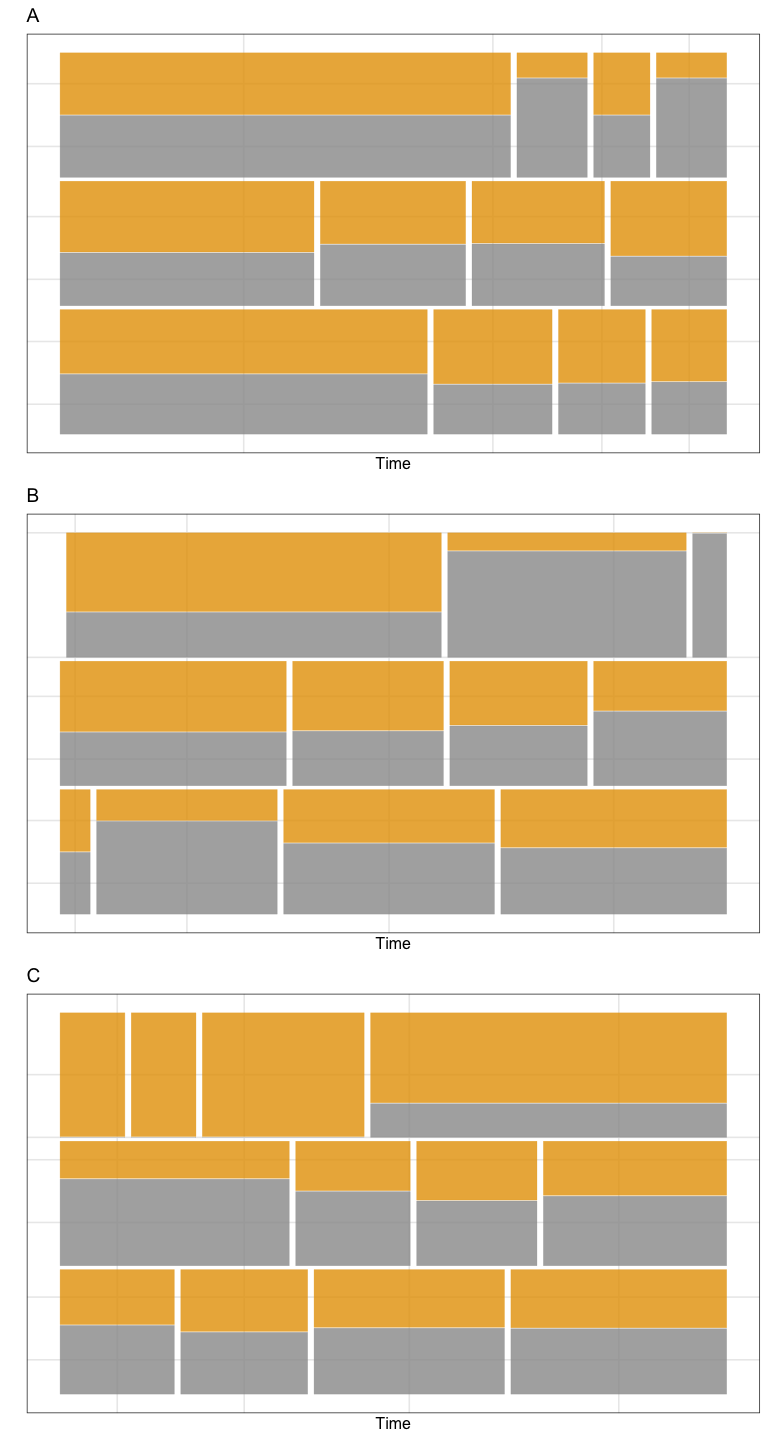
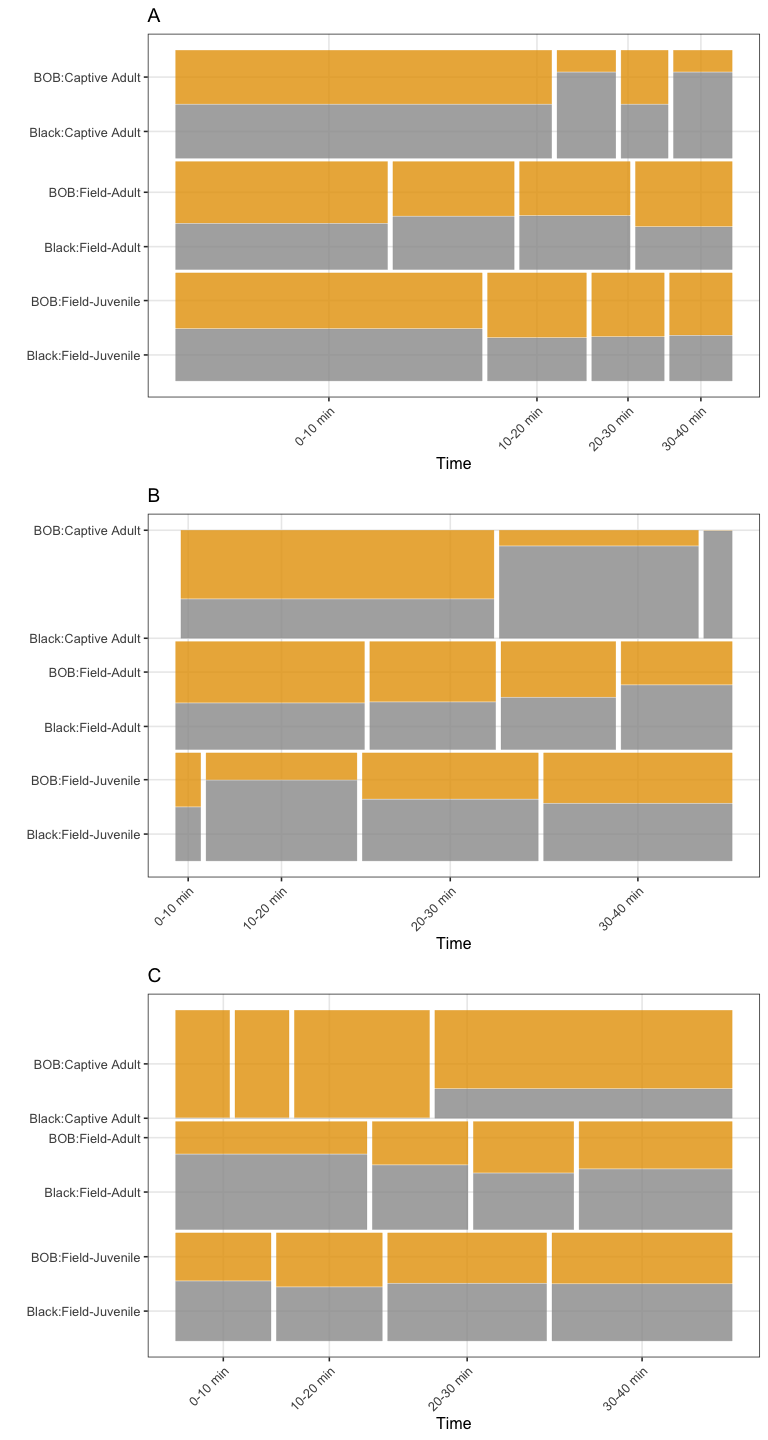
update plots mosaic

diff --git a/report2.md b/report2.md
@@ -92,8 +92,7 @@ resumen <- datos %>% group_by(ID) %>%
             w_size=(unique(w_size)),
             s_type=(unique(s_type)),
             s_size=(unique(s_size)), 
-            drag=(unique(drag))) %>% 
-  arrange(type, w_color, s_type)
+            drag=(unique(drag))) %>% arrange(type, w_color, s_type)
 ```
 
     ## `summarise()` ungrouping output (override with `.groups` argument)
@@ -617,7 +616,7 @@ done using the nnet package (Venables et al, 2002).
 Colophon
 ========
 
-This report was generated on 2020-09-22 16:48:02 using the following
+This report was generated on 2020-09-22 17:05:12 using the following
 computational environment and dependencies:
 
 ``` r
@@ -638,109 +637,109 @@ if ("devtools" %in% installed.packages()) devtools::session_info()
     ##  date     2020-09-22                  
     ## 
     ## ─ Packages ───────────────────────────────────────────────────────────────────
-    ##  package      * version  date       lib source        
-    ##  assertthat     0.2.1    2019-03-21 [1] CRAN (R 4.0.2)
-    ##  backports      1.1.10   2020-09-15 [1] CRAN (R 4.0.2)
-    ##  blob           1.2.1    2020-01-20 [1] CRAN (R 4.0.2)
-    ##  boot           1.3-25   2020-04-26 [1] CRAN (R 4.0.2)
-    ##  broom          0.7.0    2020-07-09 [1] CRAN (R 4.0.2)
-    ##  callr          3.4.4    2020-09-07 [1] CRAN (R 4.0.2)
-    ##  cellranger     1.1.0    2016-07-27 [1] CRAN (R 4.0.2)
-    ##  class          7.3-17   2020-04-26 [1] CRAN (R 4.0.2)
-    ##  cli            2.0.2    2020-02-28 [1] CRAN (R 4.0.2)
-    ##  colorspace     1.4-1    2019-03-18 [1] CRAN (R 4.0.2)
-    ##  crayon         1.3.4    2017-09-16 [1] CRAN (R 4.0.2)
-    ##  curl           4.3      2019-12-02 [1] CRAN (R 4.0.1)
-    ##  data.table     1.13.0   2020-07-24 [1] CRAN (R 4.0.2)
-    ##  DBI            1.1.0    2019-12-15 [1] CRAN (R 4.0.2)
-    ##  dbplyr         1.4.4    2020-05-27 [1] CRAN (R 4.0.2)
-    ##  desc           1.2.0    2018-05-01 [1] CRAN (R 4.0.2)
-    ##  DescTools    * 0.99.38  2020-09-07 [1] CRAN (R 4.0.2)
-    ##  devtools       2.3.2    2020-09-18 [1] CRAN (R 4.0.2)
-    ##  digest         0.6.25   2020-02-23 [1] CRAN (R 4.0.2)
-    ##  dplyr        * 1.0.2    2020-08-18 [1] CRAN (R 4.0.2)
-    ##  e1071          1.7-3    2019-11-26 [1] CRAN (R 4.0.2)
-    ##  ellipsis       0.3.1    2020-05-15 [1] CRAN (R 4.0.2)
-    ##  evaluate       0.14     2019-05-28 [1] CRAN (R 4.0.1)
-    ##  Exact          2.0      2019-10-14 [1] CRAN (R 4.0.2)
-    ##  expm           0.999-5  2020-07-20 [1] CRAN (R 4.0.2)
-    ##  extrafont    * 0.17     2014-12-08 [1] CRAN (R 4.0.2)
-    ##  extrafontdb    1.0      2012-06-11 [1] CRAN (R 4.0.2)
-    ##  fansi          0.4.1    2020-01-08 [1] CRAN (R 4.0.2)
-    ##  farver         2.0.3    2020-01-16 [1] CRAN (R 4.0.2)
-    ##  forcats      * 0.5.0    2020-03-01 [1] CRAN (R 4.0.2)
-    ##  foreign      * 0.8-80   2020-05-24 [1] CRAN (R 4.0.2)
-    ##  fs             1.5.0    2020-07-31 [1] CRAN (R 4.0.2)
-    ##  generics       0.0.2    2018-11-29 [1] CRAN (R 4.0.2)
-    ##  ggmosaic     * 0.2.0    2018-09-12 [1] CRAN (R 4.0.2)
-    ##  ggplot2      * 3.3.2    2020-06-19 [1] CRAN (R 4.0.2)
-    ##  gld            2.6.2    2020-01-08 [1] CRAN (R 4.0.2)
-    ##  glue           1.4.2    2020-08-27 [1] CRAN (R 4.0.2)
-    ##  gridExtra    * 2.3      2017-09-09 [1] CRAN (R 4.0.2)
-    ##  gtable         0.3.0    2019-03-25 [1] CRAN (R 4.0.2)
-    ##  haven          2.3.1    2020-06-01 [1] CRAN (R 4.0.2)
-    ##  hms            0.5.3    2020-01-08 [1] CRAN (R 4.0.2)
-    ##  htmltools      0.5.0    2020-06-16 [1] CRAN (R 4.0.2)
-    ##  htmlwidgets    1.5.1    2019-10-08 [1] CRAN (R 4.0.2)
-    ##  httr           1.4.2    2020-07-20 [1] CRAN (R 4.0.2)
-    ##  jsonlite       1.7.1    2020-09-07 [1] CRAN (R 4.0.2)
-    ##  knitr          1.29     2020-06-23 [1] CRAN (R 4.0.2)
-    ##  labeling       0.3      2014-08-23 [1] CRAN (R 4.0.2)
-    ##  lattice        0.20-41  2020-04-02 [1] CRAN (R 4.0.2)
-    ##  lazyeval       0.2.2    2019-03-15 [1] CRAN (R 4.0.2)
-    ##  lifecycle      0.2.0    2020-03-06 [1] CRAN (R 4.0.2)
-    ##  lmom           2.8      2019-03-12 [1] CRAN (R 4.0.2)
-    ##  lubridate      1.7.9    2020-06-08 [1] CRAN (R 4.0.2)
-    ##  magrittr       1.5      2014-11-22 [1] CRAN (R 4.0.2)
-    ##  MASS           7.3-51.6 2020-04-26 [1] CRAN (R 4.0.2)
-    ##  Matrix         1.2-18   2019-11-27 [1] CRAN (R 4.0.2)
-    ##  memoise        1.1.0    2017-04-21 [1] CRAN (R 4.0.2)
-    ##  mgcv           1.8-31   2019-11-09 [1] CRAN (R 4.0.2)
-    ##  modelr         0.1.8    2020-05-19 [1] CRAN (R 4.0.2)
-    ##  munsell        0.5.0    2018-06-12 [1] CRAN (R 4.0.2)
-    ##  mvtnorm        1.1-1    2020-06-09 [1] CRAN (R 4.0.2)
-    ##  nlme           3.1-148  2020-05-24 [1] CRAN (R 4.0.2)
-    ##  nnet         * 7.3-14   2020-04-26 [1] CRAN (R 4.0.2)
-    ##  pillar         1.4.6    2020-07-10 [1] CRAN (R 4.0.2)
-    ##  pkgbuild       1.1.0    2020-07-13 [1] CRAN (R 4.0.2)
-    ##  pkgconfig      2.0.3    2019-09-22 [1] CRAN (R 4.0.2)
-    ##  pkgload        1.1.0    2020-05-29 [1] CRAN (R 4.0.2)
-    ##  plotly         4.9.2.1  2020-04-04 [1] CRAN (R 4.0.2)
-    ##  plyr           1.8.6    2020-03-03 [1] CRAN (R 4.0.2)
-    ##  prettyunits    1.1.1    2020-01-24 [1] CRAN (R 4.0.2)
-    ##  processx       3.4.4    2020-09-03 [1] CRAN (R 4.0.2)
-    ##  productplots   0.1.1    2016-07-02 [1] CRAN (R 4.0.2)
-    ##  ps             1.3.4    2020-08-11 [1] CRAN (R 4.0.2)
-    ##  purrr        * 0.3.4    2020-04-17 [1] CRAN (R 4.0.2)
-    ##  R6             2.4.1    2019-11-12 [1] CRAN (R 4.0.2)
-    ##  Rcpp           1.0.5    2020-07-06 [1] CRAN (R 4.0.2)
-    ##  readr        * 1.3.1    2018-12-21 [1] CRAN (R 4.0.2)
-    ##  readxl       * 1.3.1    2019-03-13 [1] CRAN (R 4.0.2)
-    ##  remotes        2.2.0    2020-07-21 [1] CRAN (R 4.0.2)
-    ##  reprex         0.3.0    2019-05-16 [1] CRAN (R 4.0.2)
-    ##  reshape2     * 1.4.4    2020-04-09 [1] CRAN (R 4.0.2)
-    ##  rlang          0.4.7    2020-07-09 [1] CRAN (R 4.0.2)
-    ##  rmarkdown      2.3      2020-06-18 [1] CRAN (R 4.0.2)
-    ##  rprojroot      1.3-2    2018-01-03 [1] CRAN (R 4.0.2)
-    ##  rstudioapi     0.11     2020-02-07 [1] CRAN (R 4.0.2)
-    ##  Rttf2pt1       1.3.8    2020-01-10 [1] CRAN (R 4.0.2)
-    ##  rvest          0.3.6    2020-07-25 [1] CRAN (R 4.0.2)
-    ##  scales         1.1.1    2020-05-11 [1] CRAN (R 4.0.2)
-    ##  sessioninfo    1.1.1    2018-11-05 [1] CRAN (R 4.0.2)
-    ##  stringi        1.5.3    2020-09-09 [1] CRAN (R 4.0.2)
-    ##  stringr      * 1.4.0    2019-02-10 [1] CRAN (R 4.0.2)
-    ##  testthat       2.3.2    2020-03-02 [1] CRAN (R 4.0.2)
-    ##  tibble       * 3.0.3    2020-07-10 [1] CRAN (R 4.0.2)
-    ##  tidyr        * 1.1.2    2020-08-27 [1] CRAN (R 4.0.2)
-    ##  tidyselect     1.1.0    2020-05-11 [1] CRAN (R 4.0.2)
-    ##  tidyverse    * 1.3.0    2019-11-21 [1] CRAN (R 4.0.2)
-    ##  usethis        1.6.3    2020-09-17 [1] CRAN (R 4.0.2)
-    ##  vctrs          0.3.4    2020-08-29 [1] CRAN (R 4.0.2)
-    ##  viridisLite    0.3.0    2018-02-01 [1] CRAN (R 4.0.1)
-    ##  withr          2.2.0    2020-04-20 [1] CRAN (R 4.0.2)
-    ##  xfun           0.17     2020-09-09 [1] CRAN (R 4.0.2)
-    ##  xml2           1.3.2    2020-04-23 [1] CRAN (R 4.0.2)
-    ##  yaml           2.2.1    2020-02-01 [1] CRAN (R 4.0.2)
+    ##  package      * version  date       lib source                                
+    ##  assertthat     0.2.1    2019-03-21 [1] CRAN (R 4.0.2)                        
+    ##  backports      1.1.10   2020-09-15 [1] CRAN (R 4.0.2)                        
+    ##  blob           1.2.1    2020-01-20 [1] CRAN (R 4.0.2)                        
+    ##  boot           1.3-25   2020-04-26 [1] CRAN (R 4.0.2)                        
+    ##  broom          0.7.0    2020-07-09 [1] CRAN (R 4.0.2)                        
+    ##  callr          3.4.4    2020-09-07 [1] CRAN (R 4.0.2)                        
+    ##  cellranger     1.1.0    2016-07-27 [1] CRAN (R 4.0.2)                        
+    ##  class          7.3-17   2020-04-26 [1] CRAN (R 4.0.2)                        
+    ##  cli            2.0.2    2020-02-28 [1] CRAN (R 4.0.2)                        
+    ##  colorspace     1.4-1    2019-03-18 [1] CRAN (R 4.0.2)                        
+    ##  crayon         1.3.4    2017-09-16 [1] CRAN (R 4.0.2)                        
+    ##  curl           4.3      2019-12-02 [1] CRAN (R 4.0.1)                        
+    ##  data.table     1.13.0   2020-07-24 [1] CRAN (R 4.0.2)                        
+    ##  DBI            1.1.0    2019-12-15 [1] CRAN (R 4.0.2)                        
+    ##  dbplyr         1.4.4    2020-05-27 [1] CRAN (R 4.0.2)                        
+    ##  desc           1.2.0    2018-05-01 [1] CRAN (R 4.0.2)                        
+    ##  DescTools    * 0.99.38  2020-09-07 [1] CRAN (R 4.0.2)                        
+    ##  devtools       2.3.2    2020-09-18 [1] CRAN (R 4.0.2)                        
+    ##  digest         0.6.25   2020-02-23 [1] CRAN (R 4.0.2)                        
+    ##  dplyr        * 1.0.2    2020-08-18 [1] CRAN (R 4.0.2)                        
+    ##  e1071          1.7-3    2019-11-26 [1] CRAN (R 4.0.2)                        
+    ##  ellipsis       0.3.1    2020-05-15 [1] CRAN (R 4.0.2)                        
+    ##  evaluate       0.14     2019-05-28 [1] CRAN (R 4.0.1)                        
+    ##  Exact          2.0      2019-10-14 [1] CRAN (R 4.0.2)                        
+    ##  expm           0.999-5  2020-07-20 [1] CRAN (R 4.0.2)                        
+    ##  extrafont    * 0.17     2014-12-08 [1] CRAN (R 4.0.2)                        
+    ##  extrafontdb    1.0      2012-06-11 [1] CRAN (R 4.0.2)                        
+    ##  fansi          0.4.1    2020-01-08 [1] CRAN (R 4.0.2)                        
+    ##  farver         2.0.3    2020-01-16 [1] CRAN (R 4.0.2)                        
+    ##  forcats      * 0.5.0    2020-03-01 [1] CRAN (R 4.0.2)                        
+    ##  foreign      * 0.8-80   2020-05-24 [1] CRAN (R 4.0.2)                        
+    ##  fs             1.5.0    2020-07-31 [1] CRAN (R 4.0.2)                        
+    ##  generics       0.0.2    2018-11-29 [1] CRAN (R 4.0.2)                        
+    ##  ggmosaic     * 0.3.0    2020-09-22 [1] Github (haleyjeppson/ggmosaic@ddf4461)
+    ##  ggplot2      * 3.3.2    2020-06-19 [1] CRAN (R 4.0.2)                        
+    ##  gld            2.6.2    2020-01-08 [1] CRAN (R 4.0.2)                        
+    ##  glue           1.4.2    2020-08-27 [1] CRAN (R 4.0.2)                        
+    ##  gridExtra    * 2.3      2017-09-09 [1] CRAN (R 4.0.2)                        
+    ##  gtable         0.3.0    2019-03-25 [1] CRAN (R 4.0.2)                        
+    ##  haven          2.3.1    2020-06-01 [1] CRAN (R 4.0.2)                        
+    ##  hms            0.5.3    2020-01-08 [1] CRAN (R 4.0.2)                        
+    ##  htmltools      0.5.0    2020-06-16 [1] CRAN (R 4.0.2)                        
+    ##  htmlwidgets    1.5.1    2019-10-08 [1] CRAN (R 4.0.2)                        
+    ##  httr           1.4.2    2020-07-20 [1] CRAN (R 4.0.2)                        
+    ##  jsonlite       1.7.1    2020-09-07 [1] CRAN (R 4.0.2)                        
+    ##  knitr          1.29     2020-06-23 [1] CRAN (R 4.0.2)                        
+    ##  labeling       0.3      2014-08-23 [1] CRAN (R 4.0.2)                        
+    ##  lattice        0.20-41  2020-04-02 [1] CRAN (R 4.0.2)                        
+    ##  lazyeval       0.2.2    2019-03-15 [1] CRAN (R 4.0.2)                        
+    ##  lifecycle      0.2.0    2020-03-06 [1] CRAN (R 4.0.2)                        
+    ##  lmom           2.8      2019-03-12 [1] CRAN (R 4.0.2)                        
+    ##  lubridate      1.7.9    2020-06-08 [1] CRAN (R 4.0.2)                        
+    ##  magrittr       1.5      2014-11-22 [1] CRAN (R 4.0.2)                        
+    ##  MASS           7.3-51.6 2020-04-26 [1] CRAN (R 4.0.2)                        
+    ##  Matrix         1.2-18   2019-11-27 [1] CRAN (R 4.0.2)                        
+    ##  memoise        1.1.0    2017-04-21 [1] CRAN (R 4.0.2)                        
+    ##  mgcv           1.8-31   2019-11-09 [1] CRAN (R 4.0.2)                        
+    ##  modelr         0.1.8    2020-05-19 [1] CRAN (R 4.0.2)                        
+    ##  munsell        0.5.0    2018-06-12 [1] CRAN (R 4.0.2)                        
+    ##  mvtnorm        1.1-1    2020-06-09 [1] CRAN (R 4.0.2)                        
+    ##  nlme           3.1-148  2020-05-24 [1] CRAN (R 4.0.2)                        
+    ##  nnet         * 7.3-14   2020-04-26 [1] CRAN (R 4.0.2)                        
+    ##  pillar         1.4.6    2020-07-10 [1] CRAN (R 4.0.2)                        
+    ##  pkgbuild       1.1.0    2020-07-13 [1] CRAN (R 4.0.2)                        
+    ##  pkgconfig      2.0.3    2019-09-22 [1] CRAN (R 4.0.2)                        
+    ##  pkgload        1.1.0    2020-05-29 [1] CRAN (R 4.0.2)                        
+    ##  plotly         4.9.2.1  2020-04-04 [1] CRAN (R 4.0.2)                        
+    ##  plyr           1.8.6    2020-03-03 [1] CRAN (R 4.0.2)                        
+    ##  prettyunits    1.1.1    2020-01-24 [1] CRAN (R 4.0.2)                        
+    ##  processx       3.4.4    2020-09-03 [1] CRAN (R 4.0.2)                        
+    ##  productplots   0.1.1    2016-07-02 [1] CRAN (R 4.0.2)                        
+    ##  ps             1.3.4    2020-08-11 [1] CRAN (R 4.0.2)                        
+    ##  purrr        * 0.3.4    2020-04-17 [1] CRAN (R 4.0.2)                        
+    ##  R6             2.4.1    2019-11-12 [1] CRAN (R 4.0.2)                        
+    ##  Rcpp           1.0.5    2020-07-06 [1] CRAN (R 4.0.2)                        
+    ##  readr        * 1.3.1    2018-12-21 [1] CRAN (R 4.0.2)                        
+    ##  readxl       * 1.3.1    2019-03-13 [1] CRAN (R 4.0.2)                        
+    ##  remotes        2.2.0    2020-07-21 [1] CRAN (R 4.0.2)                        
+    ##  reprex         0.3.0    2019-05-16 [1] CRAN (R 4.0.2)                        
+    ##  reshape2     * 1.4.4    2020-04-09 [1] CRAN (R 4.0.2)                        
+    ##  rlang          0.4.7    2020-07-09 [1] CRAN (R 4.0.2)                        
+    ##  rmarkdown      2.3      2020-06-18 [1] CRAN (R 4.0.2)                        
+    ##  rprojroot      1.3-2    2018-01-03 [1] CRAN (R 4.0.2)                        
+    ##  rstudioapi     0.11     2020-02-07 [1] CRAN (R 4.0.2)                        
+    ##  Rttf2pt1       1.3.8    2020-01-10 [1] CRAN (R 4.0.2)                        
+    ##  rvest          0.3.6    2020-07-25 [1] CRAN (R 4.0.2)                        
+    ##  scales         1.1.1    2020-05-11 [1] CRAN (R 4.0.2)                        
+    ##  sessioninfo    1.1.1    2018-11-05 [1] CRAN (R 4.0.2)                        
+    ##  stringi        1.5.3    2020-09-09 [1] CRAN (R 4.0.2)                        
+    ##  stringr      * 1.4.0    2019-02-10 [1] CRAN (R 4.0.2)                        
+    ##  testthat       2.3.2    2020-03-02 [1] CRAN (R 4.0.2)                        
+    ##  tibble       * 3.0.3    2020-07-10 [1] CRAN (R 4.0.2)                        
+    ##  tidyr        * 1.1.2    2020-08-27 [1] CRAN (R 4.0.2)                        
+    ##  tidyselect     1.1.0    2020-05-11 [1] CRAN (R 4.0.2)                        
+    ##  tidyverse    * 1.3.0    2019-11-21 [1] CRAN (R 4.0.2)                        
+    ##  usethis        1.6.3    2020-09-17 [1] CRAN (R 4.0.2)                        
+    ##  vctrs          0.3.4    2020-08-29 [1] CRAN (R 4.0.2)                        
+    ##  viridisLite    0.3.0    2018-02-01 [1] CRAN (R 4.0.1)                        
+    ##  withr          2.3.0    2020-09-22 [1] CRAN (R 4.0.2)                        
+    ##  xfun           0.17     2020-09-09 [1] CRAN (R 4.0.2)                        
+    ##  xml2           1.3.2    2020-04-23 [1] CRAN (R 4.0.2)                        
+    ##  yaml           2.2.1    2020-02-01 [1] CRAN (R 4.0.2)                        
     ## 
     ## [1] /Library/Frameworks/R.framework/Versions/4.0/Resources/library
 
@@ -753,4 +752,4 @@ if ("git2r" %in% installed.packages() & git2r::in_repository(path = ".")) git2r:
 
     ## Local:    master /Users/marce/Dropbox/Mora_CICIMA2
     ## Remote:   master @ origin (git@github.com:malfaro2/Mora_et_al2.git)
-    ## Head:     [43c4dd5] 2020-09-19: links
+    ## Head:     [e44b43c] 2020-09-22: update plots
